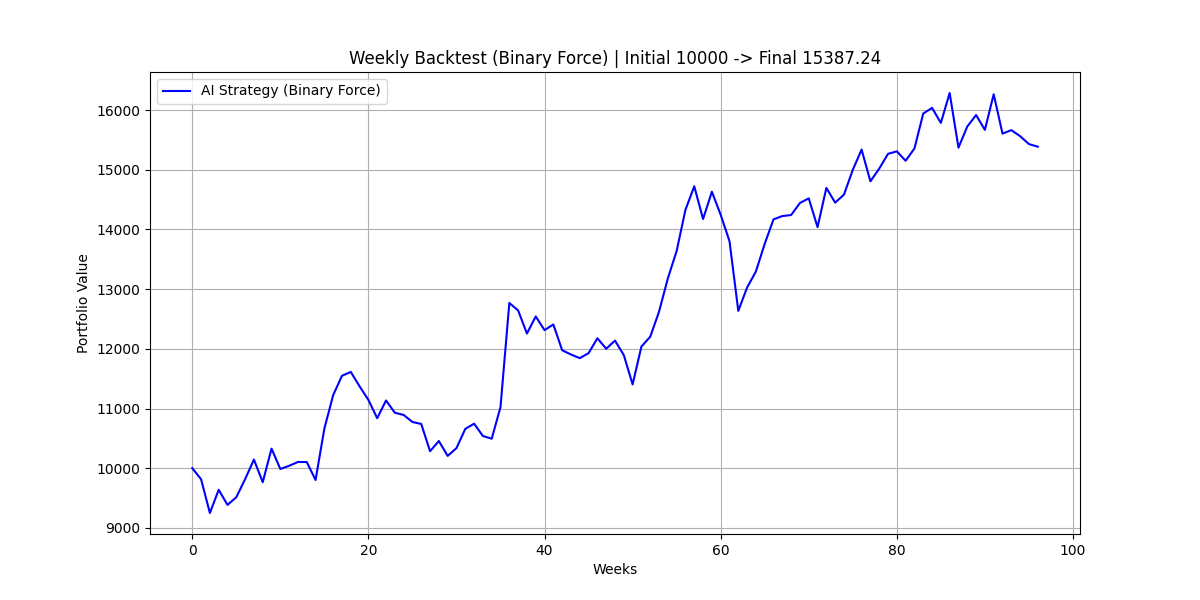
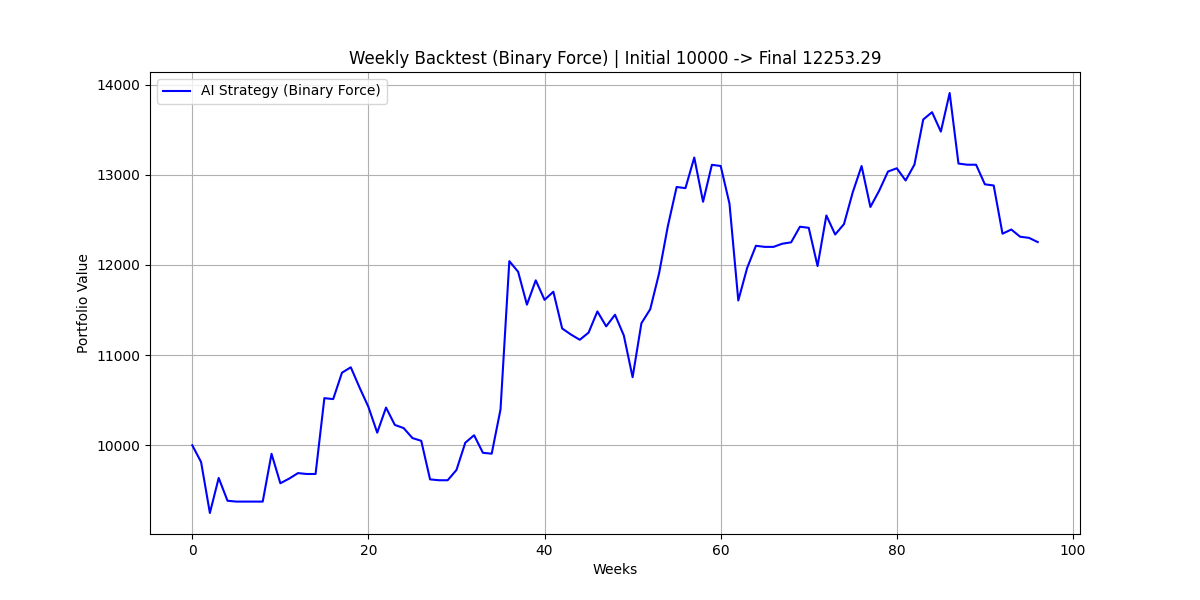
updated config

diff --git a/backtest_weekly.py b/backtest_weekly.py
@@ -146,6 +146,32 @@ def backtest():
         equity.append(balance)
 
     # 8. RESULTS & PLOTTING
+    wins = 0
+    losses = 0
+    total_trades = 0
+    
+    # Iterate through the decisions again to count
+    for t in range(0, len(pred_class), step):
+        action = pred_class[t]
+        r = aligned_future_ret[t]
+        
+        # We only care if we took a position (Action = 1 -> Buy)
+        # Note: In your binary version, 1 is Buy.
+        if action == 1: 
+            total_trades += 1
+            if r > 0:
+                wins += 1
+            else:
+                losses += 1
+
+    if total_trades > 0:
+        win_rate = (wins / total_trades) * 100
+        print(f"Total Trades: {total_trades}")
+        print(f"Wins: {wins} | Losses: {losses}")
+        print(f"Win Rate: {win_rate:.2f}%")
+    else:
+        print("No trades were taken.")
+
     total_return = (balance - initial) / initial * 100.0
     print(f"Final balance: {balance:.2f} | Total return: {total_return:.2f}%")
     

diff --git a/src/config.py b/src/config.py
@@ -27,7 +27,7 @@ VAL_SPLIT = 0.1      # 10% validation data
 BATCH_SIZE = 128      # Larger batch size = faster training on GPU
 LEARNING_RATE = 0.001
 NUM_EPOCHS = 100
-HIDDEN_DIM = 16
+HIDDEN_DIM = 32
 NUM_LAYERS = 1
 DROPOUT = 0.6
 NHEAD = 8            # Attention heads (Transformer only)
